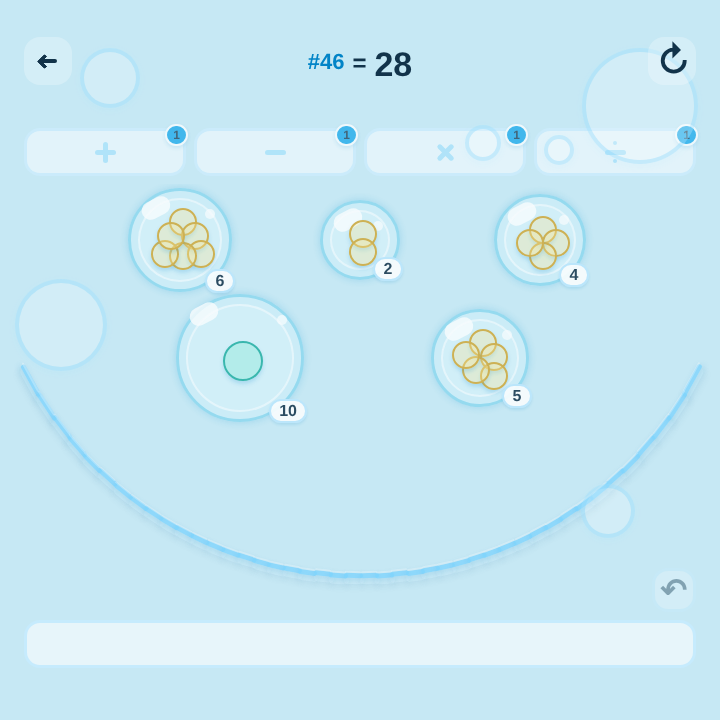
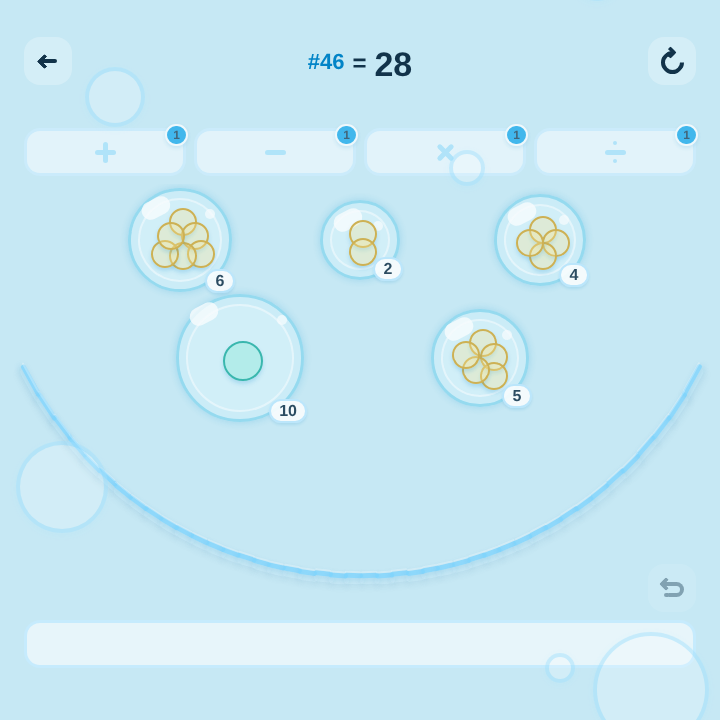
Retake the two posters of the landing page
They showed the board as it was before the icon buttons were made
alike: a typed "↻" for retry and a round "one step back".

The recorder now waits, before a poster is taken, for a moment at
which no decorative bubble lies over a button, a number bubble or
the goal. The bubbles drift over everything, and the first retake
had the big one sitting on the ÷.

mode-marumaru.webm is left as it was: the page shows only the
posters, so the video file is not part of the site.

Claude-Session: https://claude.ai/code/session_01VrQnxy96CDgExi9ez6irwn

diff --git a/scripts/record-mode-demos.js b/scripts/record-mode-demos.js
@@ -144,6 +144,7 @@ async function recordMarumaruMode(browser) {
   await page.getByTestId('stage-multiplication-25').click();
   await page.getByLabel('bubble-8').first().waitFor({ state: 'visible', timeout: 6000 });
   await page.waitForTimeout(1200);
+  await waitForClearBoard(page);
 
   // The poster is the stage as it opens.
   const posterPath = path.join(OUTPUT_DIR, 'mode-marumaru-poster.png');
@@ -275,6 +276,7 @@ async function capturePuzzlePoster(browser) {
   await page.getByTestId(`pick-puzzle-${PUZZLE_POSTER_NUMBER}`).click();
   await page.locator('[data-testid^="pending-bubble-"]').first().waitFor({ state: 'visible', timeout: 6000 });
   await page.waitForTimeout(1500);
+  await waitForClearBoard(page);
 
   const outputPath = path.join(OUTPUT_DIR, 'mode-puzzle-poster.png');
   await page.screenshot({ path: outputPath });
@@ -309,6 +311,25 @@ function findWay(first, others, goal, operators) {
     return undefined;
   };
   return search(first, others, [first]);
+}
+
+/**
+ * Waits for a moment at which no decorative bubble of any size lies over a button, a number bubble
+ * or the goal. The bubbles drift over everything; a poster should show the board, not one of them
+ * sitting on the ÷.
+ */
+async function waitForClearBoard(page) {
+  await page.waitForFunction(
+    () => {
+      const parts = [...document.querySelectorAll('[data-testid^="operator-"], [data-testid^="pending-bubble-"], [data-testid="stage-goal-target"], [data-testid="stage-goal-number"], [data-testid="undo-move"]')].map((part) => part.getBoundingClientRect());
+      return [...document.querySelectorAll('[data-testid^="background-bubble-"]')].every((bubble) => {
+        const box = bubble.getBoundingClientRect();
+        return box.width < 40 || parts.every((part) => box.right < part.left || box.left > part.right || box.bottom < part.top || box.top > part.bottom);
+      });
+    },
+    null,
+    { timeout: 180000, polling: 200 },
+  );
 }
 
 async function clickBubble(page, count) {
